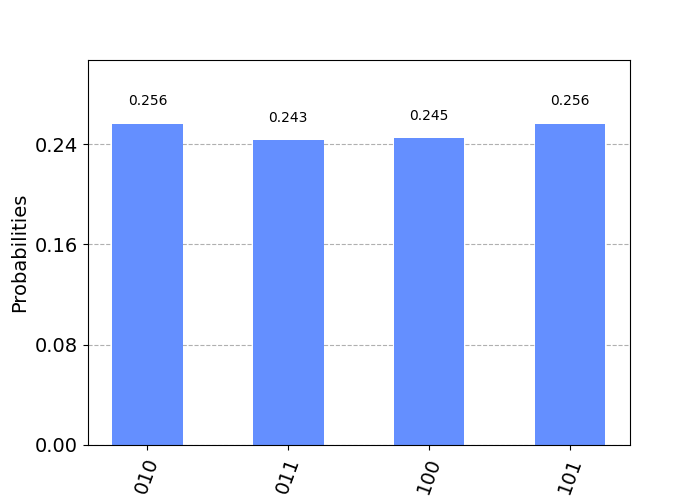
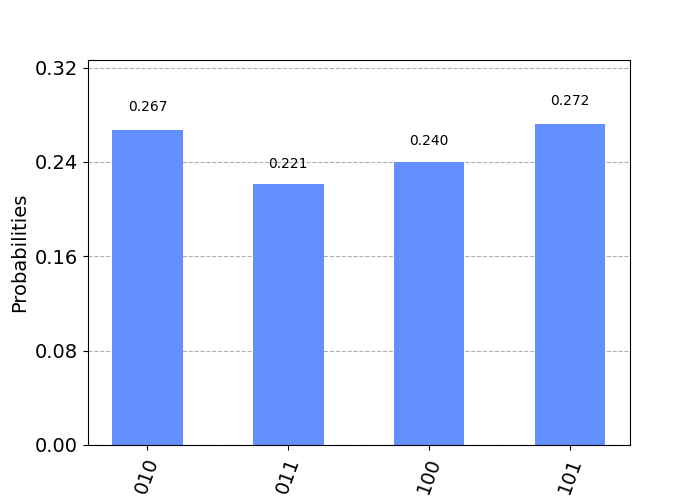
scigym qiskit teleportation bruteforce

diff --git a/Prueba 1/scigym-final-teleportation-bruteforce.py b/Prueba 1/scigym-final-teleportation-bruteforce.py
@@ -29,42 +29,34 @@ def teleportation_circuit(observation, circuit):
         if action == 0:
             actions_gate.append('H_0')
             circuit.h(0)
-            circuit.barrier() 
         elif action == 1:
             actions_gate.append('T_0')
             circuit.t(0)
-            circuit.barrier() 
         elif action == 2:
             actions_gate.append('H_1')
             circuit.h(1)
-            circuit.barrier() 
         elif action == 3:
             actions_gate.append('T_1')
             circuit.t(1)
-            circuit.barrier() 
         elif action == 4:
             actions_gate.append('H_2')
             circuit.h(2)
-            circuit.barrier() 
         elif action == 5:
             actions_gate.append('T_2')
             circuit.t(2)
-            circuit.barrier() 
         elif action == 6:
             actions_gate.append('CNOT_01')
             circuit.cx(0,1)
-            circuit.barrier() 
         elif (action == 10) or (action == 11):
             actions_gate.append('MEASURE_0')
             circuit.measure(0, 0) 
-            circuit.barrier() 
         elif (action == 12) or (action == 13):
             actions_gate.append('MEASURE_1')
             circuit.measure(1, 1) 
-            circuit.barrier() 
         elif (action == 14) or (action == 15):
             actions_gate.append('MEASURE_2')
             circuit.measure(2, 2) 
+        if action < 16 :
             circuit.barrier() 
     return circuit, actions_gate
 
@@ -72,7 +64,6 @@ def circuit_measurement(observation, circuit):
     outcome = [] 
     if (14 not in observation) or (15 not in observation) :
         circuit.measure([2], [2]) 
-        circuit.barrier() 
     if 13 in observation:
         outcome.append(1)
     if 12 in observation:  
@@ -121,10 +112,10 @@ circuit, actions_gate = teleportation_circuit(observation, circuit)
 circuit, outcome = circuit_measurement(observation, circuit)
 
 print("{}: Number of actions: {}. Actions (gates): {}.".format(j, i, actions_gate))
-print("Observations: {}.".format(observation))     
+#print("Observations: {}.".format(observation))     
 print("Quantum circuit:\n{}".format(circuit))
 print("[qubit1, qubit0] = {}".format(outcome))
-statevector = circuit_statevector_solver(circuit)
+#statevector = circuit_statevector_solver(circuit)
 counts = circuit_counts_solver(circuit)
 
 for out in counts.keys():
